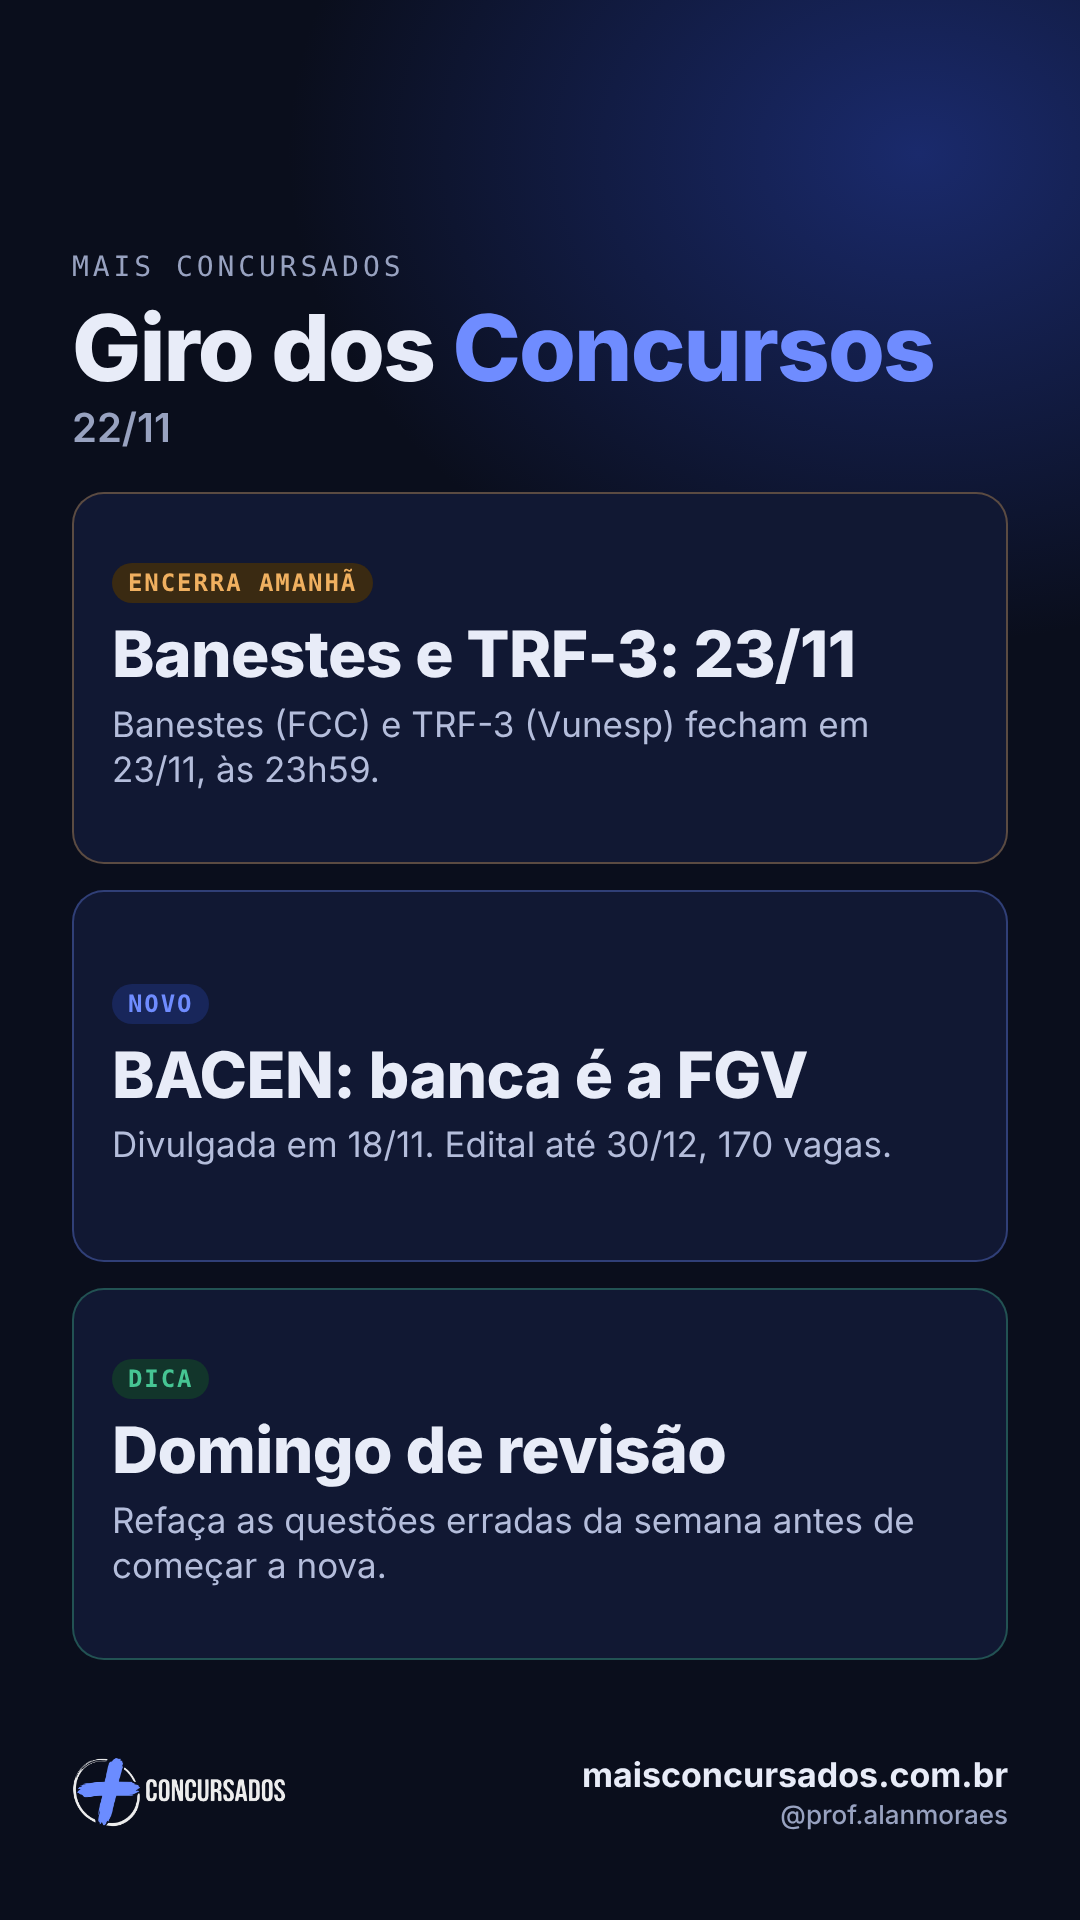
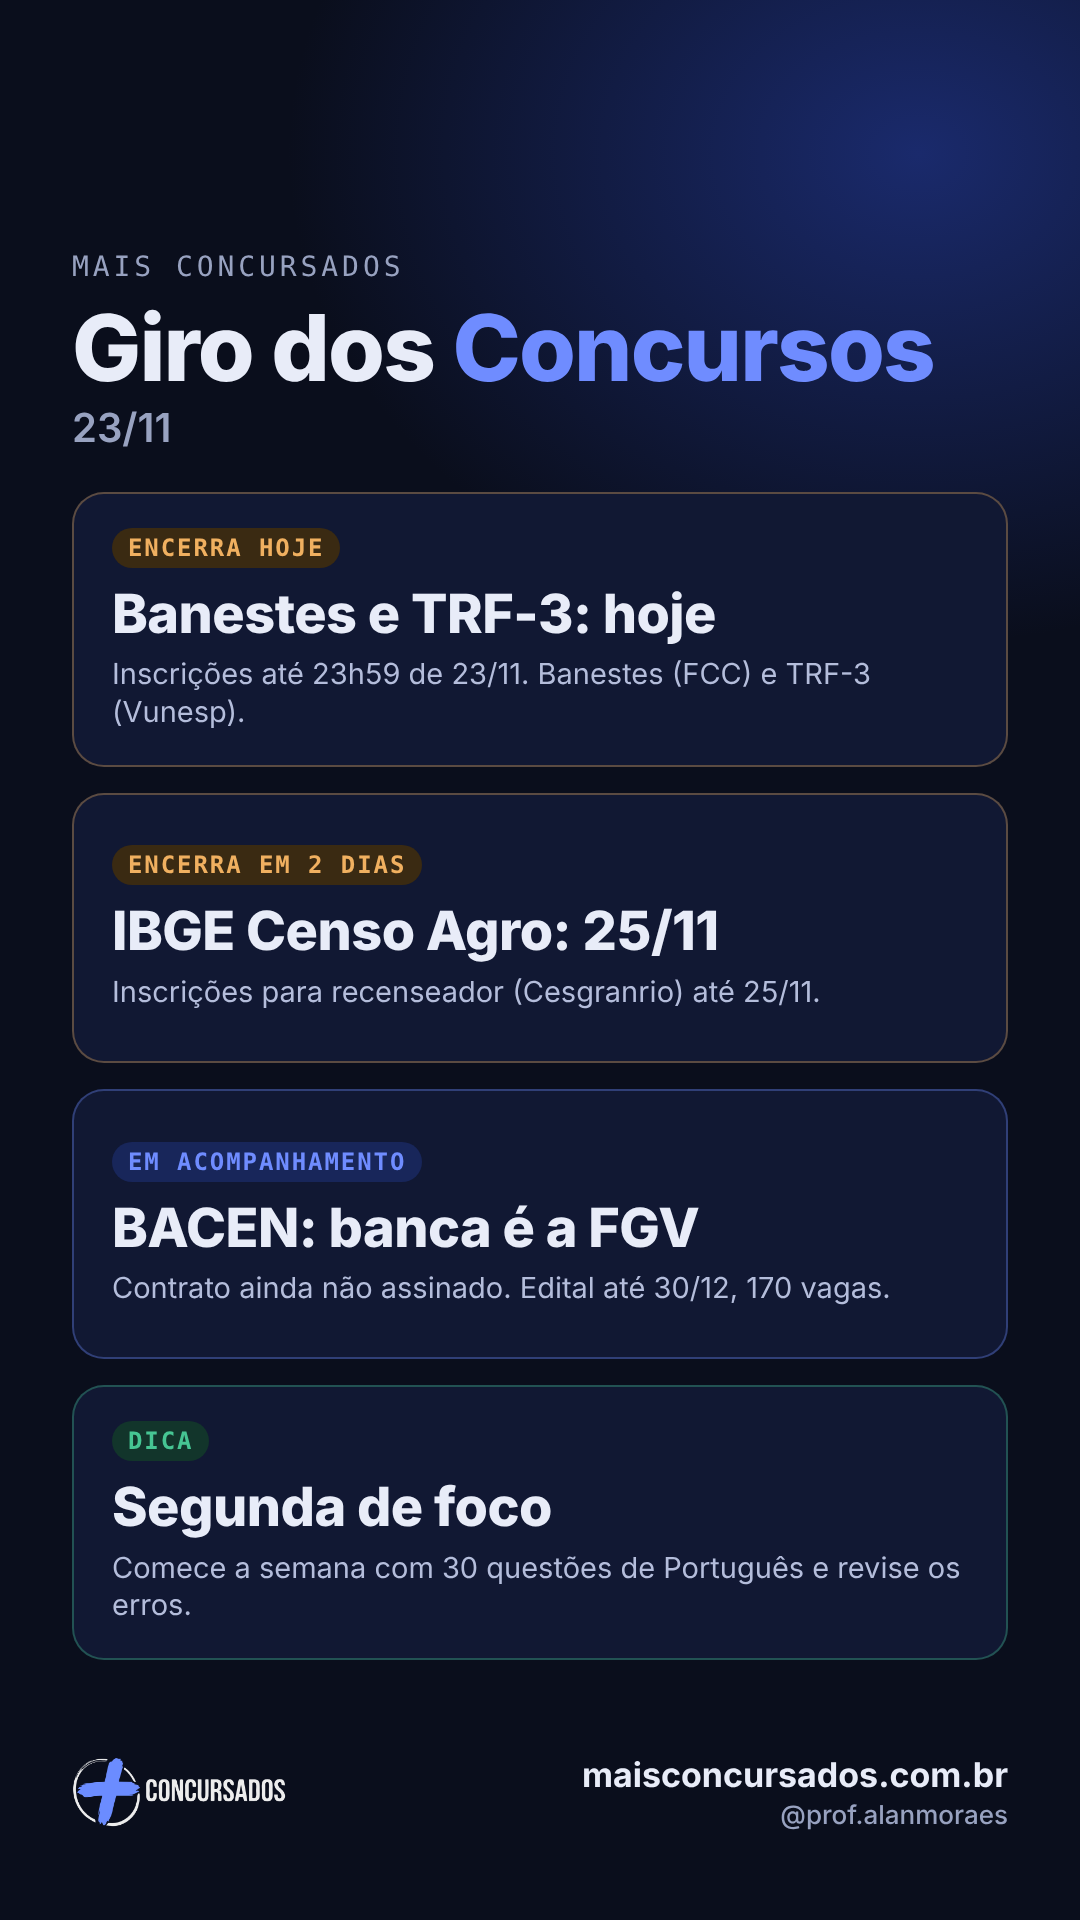
Giro dos Concursos 23/11: atualização diária e arte de Stories
Claude-Session: https://claude.ai/code/session_01A4P6MWn3eHmjnbgjkpdXxq

diff --git a/site/editais.html b/site/editais.html
@@ -48,7 +48,7 @@
 </main>
 <footer><div class="wrap"><div><h4>Mais Concursados</h4><p>Editais de concursos de todas as áreas, com destaque para os bancários, e estudo com método para quem quer a aprovação. Por Alan Moraes, bancário, professor e mentor para concursos.</p></div><div><h4>Navegue</h4><ul><li><a href="editais.html">Editais</a></li><li><a href="cursos.html">Cursos</a></li><li><a href="blog.html">Blog</a></li><li><a href="mentorias.html">Mentorias</a></li><li><a href="area-do-aluno.html">Área do aluno</a></li></ul></div><div><h4>Institucional</h4><ul><li><a href="sobre.html">Sobre o Alan</a></li><li><a href="contato.html">Contato</a></li><li><a href="privacidade.html">Política de privacidade</a></li></ul></div><p class="legal">© 2026 Mais Concursados · maisconcursados.com.br. As informações de editais vêm de portais de notícias e devem ser conferidas no edital oficial. O Mais Concursados não é banca organizadora nem órgão público.</p></div></footer>
 <script type="application/json" id="editais-data">{
- "atualizadoEm": "2026-11-22",
+ "atualizadoEm": "2026-11-23",
  "aviso": "Conferido em 13/10/2026 no texto dos editais e em pelo menos duas fontes independentes. Os sites das bancas bloquearam a leitura automática, por isso confirme sempre no edital oficial antes de se inscrever.",
  "editais": [
   {

diff --git a/site/index.html b/site/index.html
@@ -72,7 +72,7 @@
 </main>
 <footer><div class="wrap"><div><h4>Mais Concursados</h4><p>Editais de concursos de todas as áreas, com destaque para os bancários, e estudo com método para quem quer a aprovação. Por Alan Moraes, bancário, professor e mentor para concursos.</p></div><div><h4>Navegue</h4><ul><li><a href="editais.html">Editais</a></li><li><a href="cursos.html">Cursos</a></li><li><a href="blog.html">Blog</a></li><li><a href="mentorias.html">Mentorias</a></li><li><a href="area-do-aluno.html">Área do aluno</a></li></ul></div><div><h4>Institucional</h4><ul><li><a href="sobre.html">Sobre o Alan</a></li><li><a href="contato.html">Contato</a></li><li><a href="privacidade.html">Política de privacidade</a></li></ul></div><p class="legal">© 2026 Mais Concursados · maisconcursados.com.br. As informações de editais vêm de portais de notícias e devem ser conferidas no edital oficial. O Mais Concursados não é banca organizadora nem órgão público.</p></div></footer>
 <script type="application/json" id="editais-data">{
- "atualizadoEm": "2026-11-22",
+ "atualizadoEm": "2026-11-23",
  "aviso": "Conferido em 13/10/2026 no texto dos editais e em pelo menos duas fontes independentes. Os sites das bancas bloquearam a leitura automática, por isso confirme sempre no edital oficial antes de se inscrever.",
  "editais": [
   {
